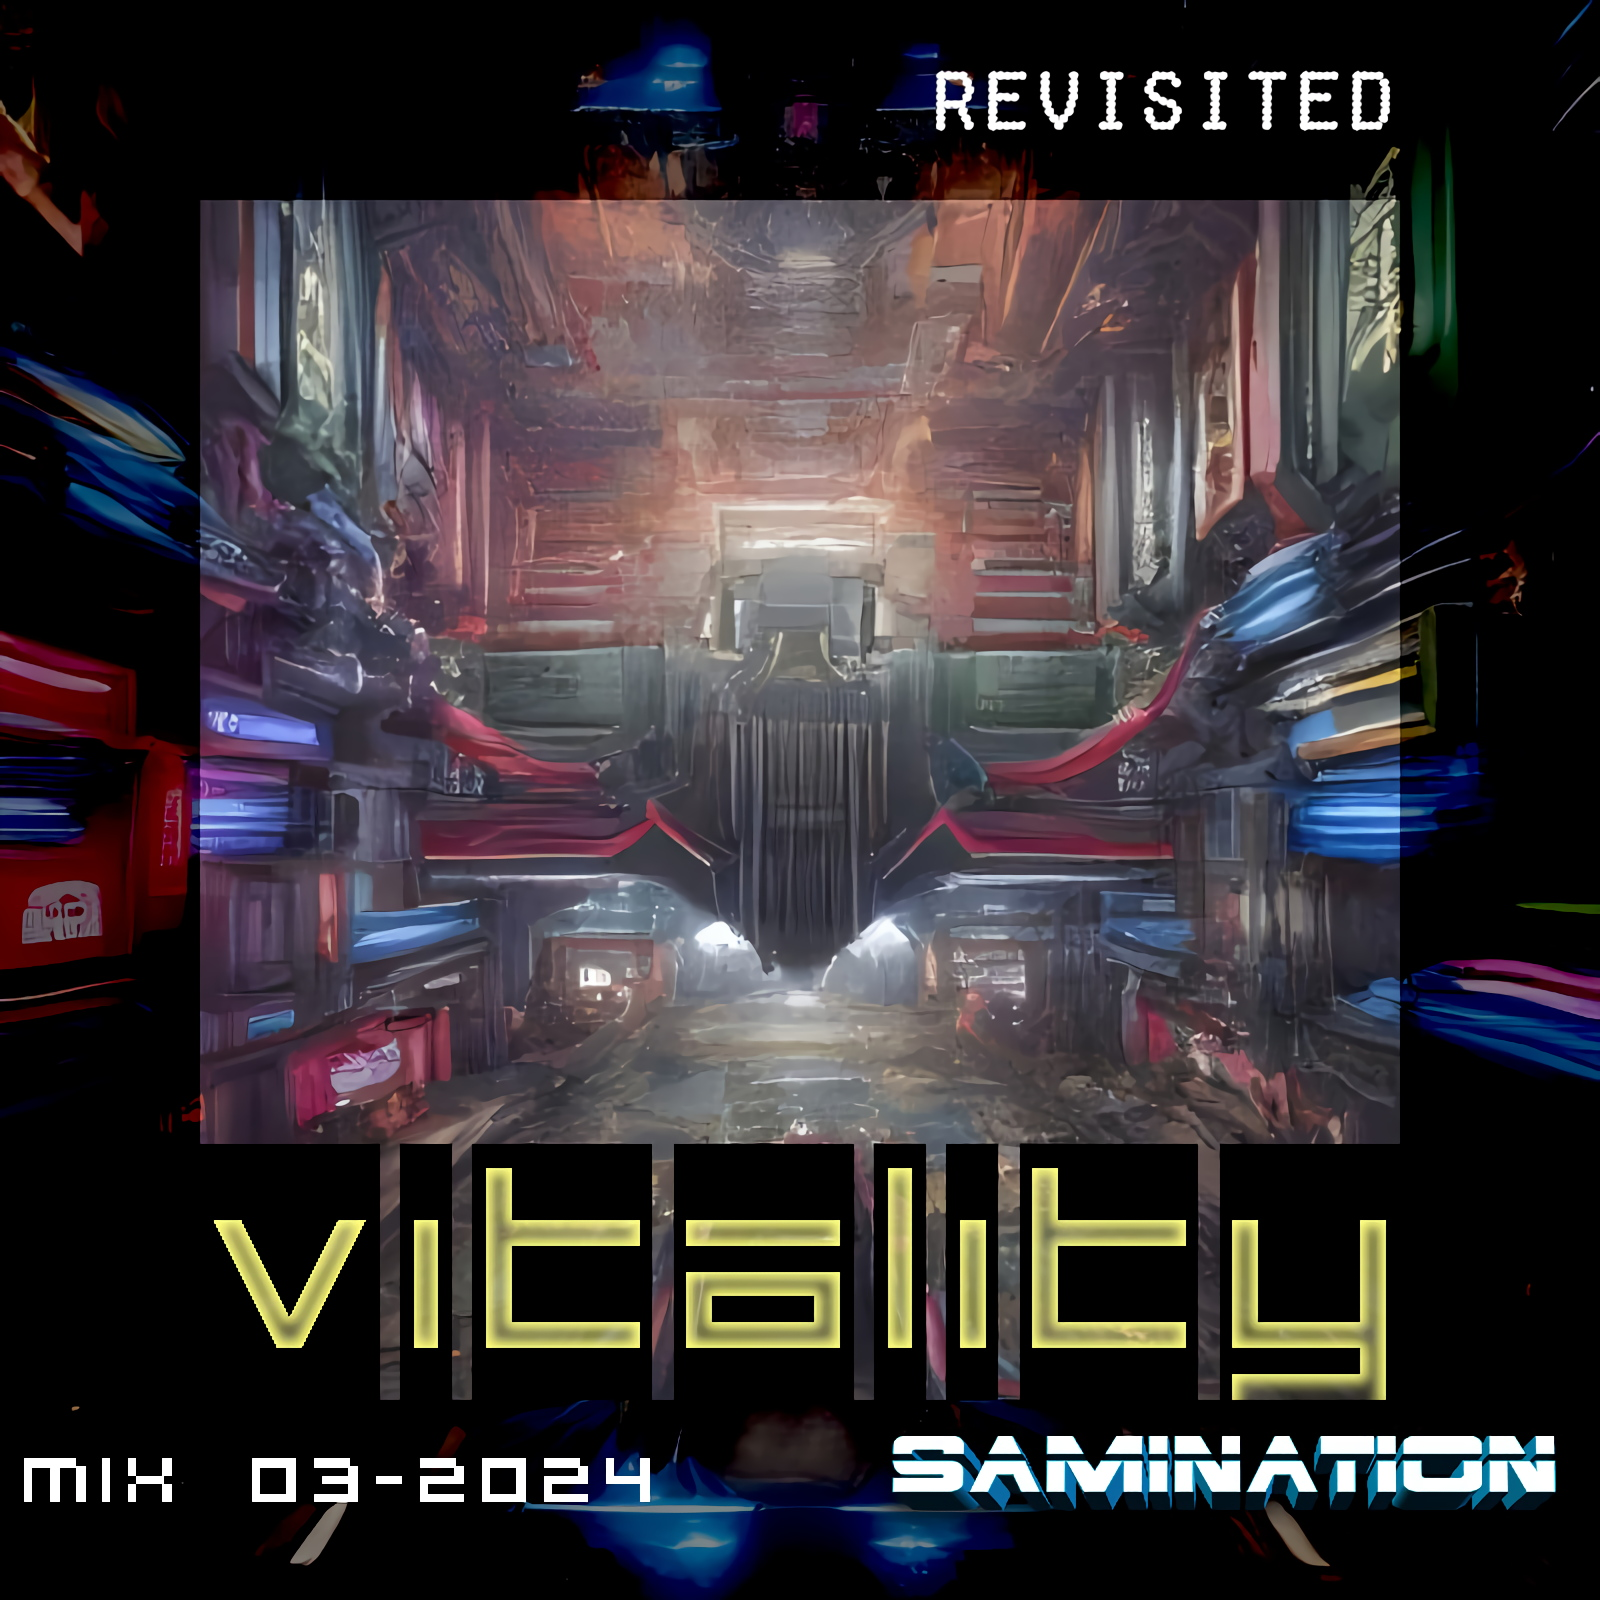
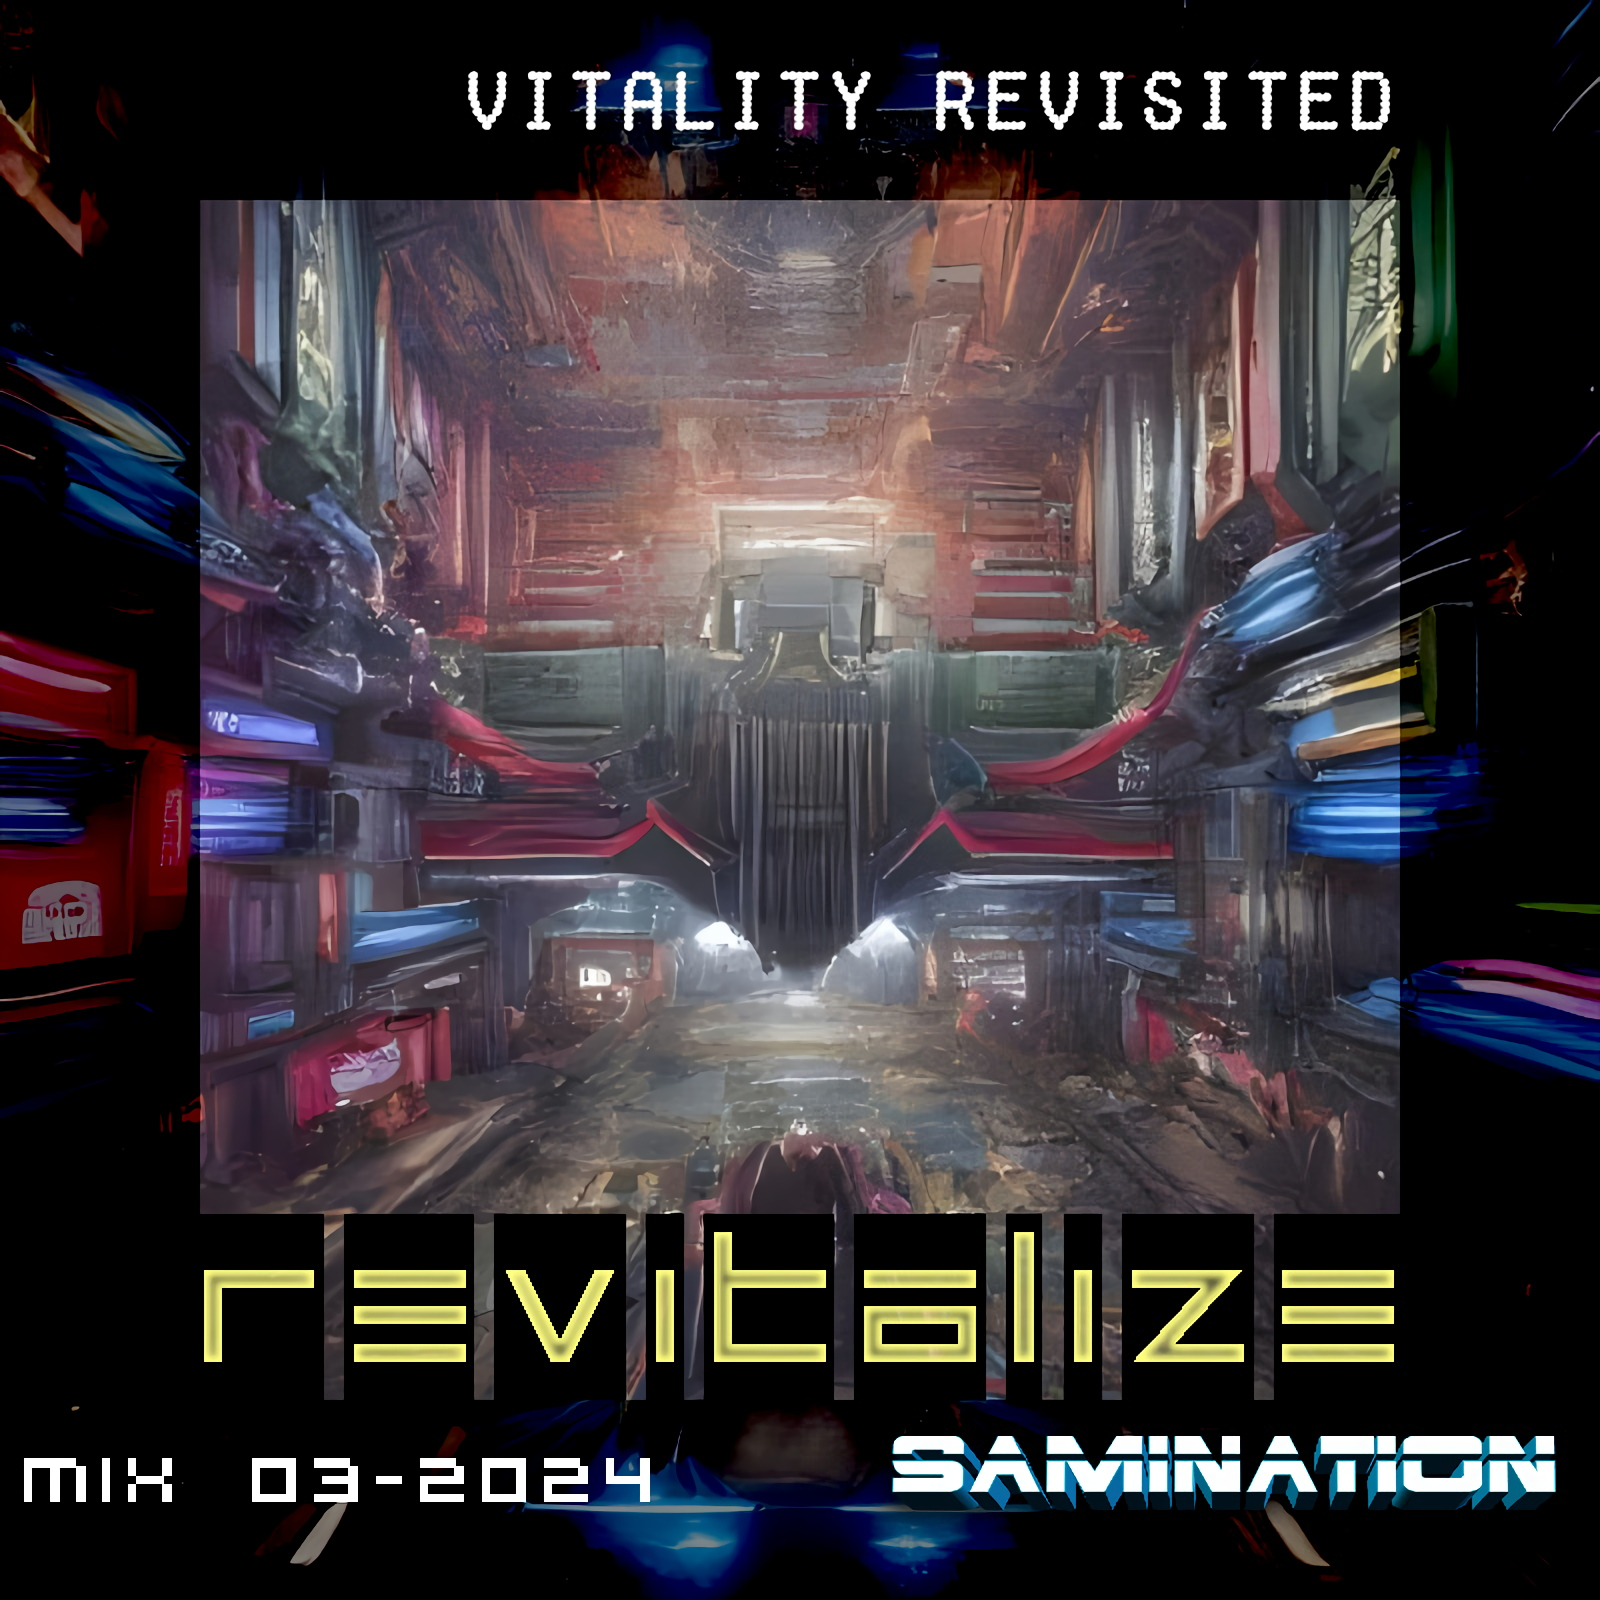
mix03revisted change

Changed region(s): [[0.125, 0.6875, 0.875, 0.875], [0.2812, 0.0312, 0.5625, 0.0938]]

diff --git a/mixes/revisited_mix03/index.htm b/mixes/revisited_mix03/index.htm
@@ -4,13 +4,13 @@
 <meta content="text/html; charset=utf-8" http-equiv="Content-Type" />
 <meta content="en-us" http-equiv="Content-Language" />
 <meta content="samination, hardcore, happy hardcore, gabber, freeform, makina, dj mixes, mixes" name="keywords" />
-<meta property="og:title" content="Samination - Mix 03 - Vitality (Revisited)" /><meta property="og:description" content="Download and see the tracklist here" />
+<meta property="og:title" content="Samination - Mix 03 - Revitalize (Vitality Revisited)" /><meta property="og:description" content="Download and see the tracklist here" />
 <meta property="og:image" content="/samination/thumbnails/samination_revisited_mix03.jpg" />
 <link href="../../stylesheet.css" rel="stylesheet" type="text/css" />
-<title>Samination - Mix 03 - Vitality (Revisited)</title>
+<title>Samination - Mix 03 - Revitalize (Vitality Revisited)</title>
 </head>
 <body><div id="leftbackground"></div><div id="rightbackground"></div><div id="maincontent">
-<div class="title"><img alt="Samination" src="/imgs/SAMINATION.png" /></div><div class="h1">Samination - Mix 03 - Vitality (Revisited)</div>
+<div class="title"><img alt="Samination" src="/imgs/SAMINATION.png" /></div><div class="h1">Samination - Mix 03 - Revitalize (Vitality Revisited)</div>
 <div class="menu"><a href="/">Home</a> - <a href="/mixes/">Mixes</a> - <a href="/information.html">Info</a> - <a href="/shoutbox.html">Shoutbox</a> - <a href="/mixedtracks.html">Stats</a></div>
 <div class="image"><a href="/samination/samination_revisited_mix03.jpg"><img src="/samination/thumbnails/samination_revisited_mix03.jpg"/></a></div>
 <div class="h3">

diff --git a/mixes/revisited_mix03/index.html b/mixes/revisited_mix03/index.html
@@ -4,13 +4,13 @@
 <meta content="text/html; charset=utf-8" http-equiv="Content-Type" />
 <meta content="en-us" http-equiv="Content-Language" />
 <meta content="samination, hardcore, happy hardcore, gabber, freeform, makina, dj mixes, mixes" name="keywords" />
-<meta property="og:title" content="Samination - Mix 03 - Vitality (Revisited)" /><meta property="og:description" content="Download and see the tracklist here" />
+<meta property="og:title" content="Samination - Mix 03 - Revitalize (Vitality Revisited)" /><meta property="og:description" content="Download and see the tracklist here" />
 <meta property="og:image" content="/samination/thumbnails/samination_revisited_mix03.jpg" />
 <link href="../../stylesheet.css" rel="stylesheet" type="text/css" />
-<title>Samination - Mix 03 - Vitality (Revisited)</title>
+<title>Samination - Mix 03 - Revitalize (Vitality Revisited)</title>
 </head>
 <body><div id="leftbackground"></div><div id="rightbackground"></div><div id="maincontent">
-<div class="title"><img alt="Samination" src="/imgs/SAMINATION.png" /></div><div class="h1">Samination - Mix 03 - Vitality (Revisited)</div>
+<div class="title"><img alt="Samination" src="/imgs/SAMINATION.png" /></div><div class="h1">Samination - Mix 03 - Revitalize (Vitality Revisited)</div>
 <div class="menu"><a href="/">Home</a> - <a href="/mixes/">Mixes</a> - <a href="/information.html">Info</a> - <a href="/shoutbox.html">Shoutbox</a> - <a href="/mixedtracks.html">Stats</a></div>
 <div class="image"><a href="/samination/samination_revisited_mix03.jpg"><img src="/samination/thumbnails/samination_revisited_mix03.jpg"/></a></div>
 <div class="h3">

diff --git a/mixes/revisited_mix03/index2.htm b/mixes/revisited_mix03/index2.htm
@@ -4,13 +4,13 @@
 <meta content="text/html; charset=utf-8" http-equiv="Content-Type" />
 <meta content="en-us" http-equiv="Content-Language" />
 <meta content="samination, hardcore, happy hardcore, gabber, freeform, makina, dj mixes, mixes" name="keywords" />
-<meta property="og:title" content="Samination - Mix 03 - Vitality (Revisited)" /><meta property="og:description" content="Download and see the tracklist here" />
+<meta property="og:title" content="Samination - Mix 03 - Revitalize (Vitality Revisited)" /><meta property="og:description" content="Download and see the tracklist here" />
 <meta property="og:image" content="/samination/thumbnails/samination_revisited_mix03.jpg" />
 <link href="../../stylesheet.css" rel="stylesheet" type="text/css" />
-<title>Samination - Mix 03 - Vitality (Revisited)</title>
+<title>Samination - Mix 03 - Revitalize (Vitality Revisited)</title>
 </head>
 <body><div id="leftbackground"></div><div id="rightbackground"></div><div id="maincontent">
-<div class="title"><img alt="Samination" src="/imgs/SAMINATION.png" /></div><div class="h1">Samination - Mix 03 - Vitality (Revisited)</div>
+<div class="title"><img alt="Samination" src="/imgs/SAMINATION.png" /></div><div class="h1">Samination - Mix 03 - Revitalize (Vitality Revisited)</div>
 <div class="menu"><a href="/">Home</a> - <a href="/mixes/">Mixes</a> - <a href="/information.html">Info</a> - <a href="/shoutbox.html">Shoutbox</a> - <a href="/mixedtracks.html">Stats</a></div>
 <div class="image"><a href="/samination/samination_revisited_mix03.jpg"><img src="/samination/thumbnails/samination_revisited_mix03.jpg"/></a></div>
 <div class="h3">

diff --git a/fulllist.html b/fulllist.html
@@ -1630,7 +1630,7 @@
 18 - The Acolyte - Mind Kontrol <br/>
 19 - Joey Riot - Death & Destruction <br/>
 </td></tr>
-<tr><td class="fulllisttitle" colspan="2"><a href="/mixes/revisited_mix03/"> Samination - Mix 03 - Vitality (Revisited) (2024)</a></td></tr><tr><td class="fulllistempty"></td><td>
+<tr><td class="fulllisttitle" colspan="2"><a href="/mixes/revisited_mix03/"> Samination - Mix 03 - Revitalize (Vitality Revisited) (2024)</a></td></tr><tr><td class="fulllistempty"></td><td>
 1 - DOK - DOK's Symphony <br/>
 2 - Euphony - Space Invaders (Scott Brown mix) <br/>
 3 - Styles & Breeze - Total XTC <br/>

diff --git a/mixes/index.html b/mixes/index.html
@@ -15,7 +15,7 @@
 <div class="tracklist">
 <br/>Mixes for <span class="fulllisttitle">2024</span><br/>
 <span class="mixlistdate">Jun</span> <a href="revisited_mix40/"> Mix 40 - Feelings of Silence (Revisited)</a> <em class="mixlistextra">+CUE +COVER +REVISITED</em><br/>
-<span class="mixlistdate">May</span> <a href="revisited_mix03/"> Mix 03 - Vitality (Revisited)</a> <em class="mixlistextra">+CUE +COVER +REVISITED</em><br/>
+<span class="mixlistdate">May</span> <a href="revisited_mix03/"> Mix 03 - Revitalize (Vitality Revisited)</a> <em class="mixlistextra">+CUE +COVER +REVISITED</em><br/>
 <br/>Mixes for <span class="fulllisttitle">2023</span><br/>
 <span class="mixlistdate">Nov</span> <a href="revisited_mix39/"> Mix 39 - Xmas 2007 mix (Revisited)</a> <em class="mixlistextra">+CUE +COVER +REVISITED</em><br/>
 <span class="mixlistdate">Oct</span> <a href="mix69/"> Mix 69 - 20th Anniversary Mix</a> <em class="mixlistextra">+CUE +COVER +BACK </em><br/>